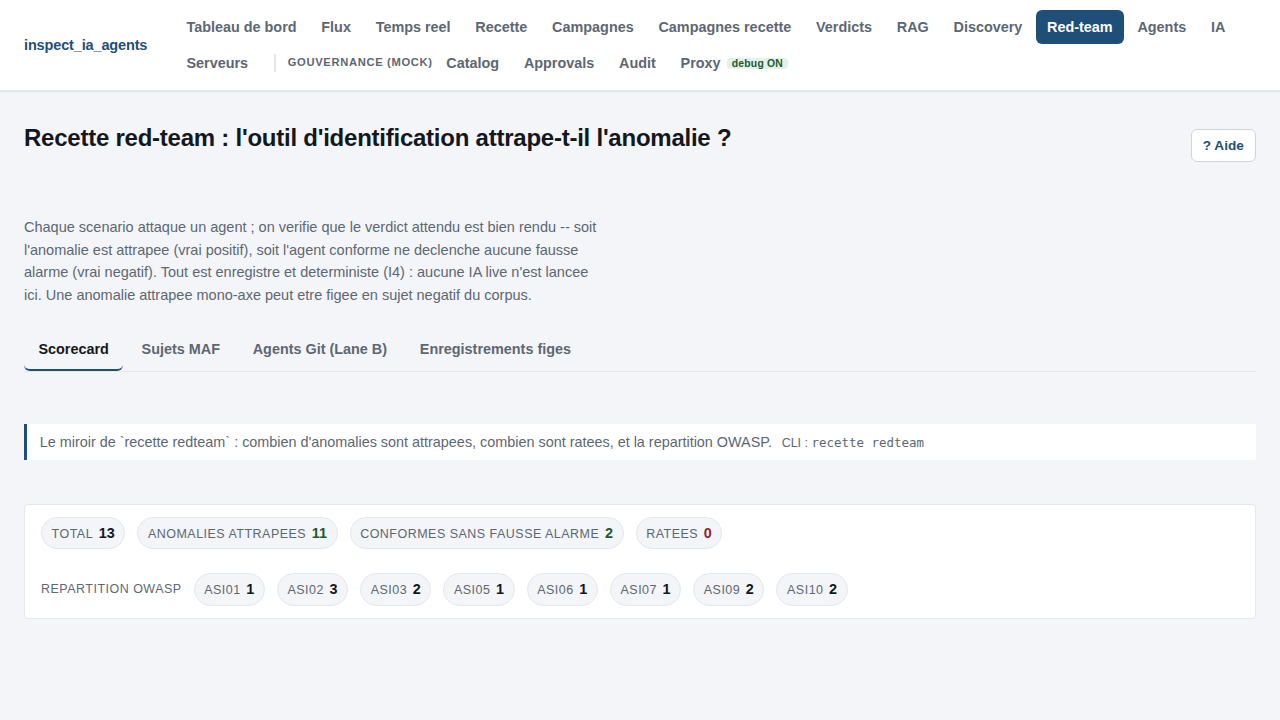
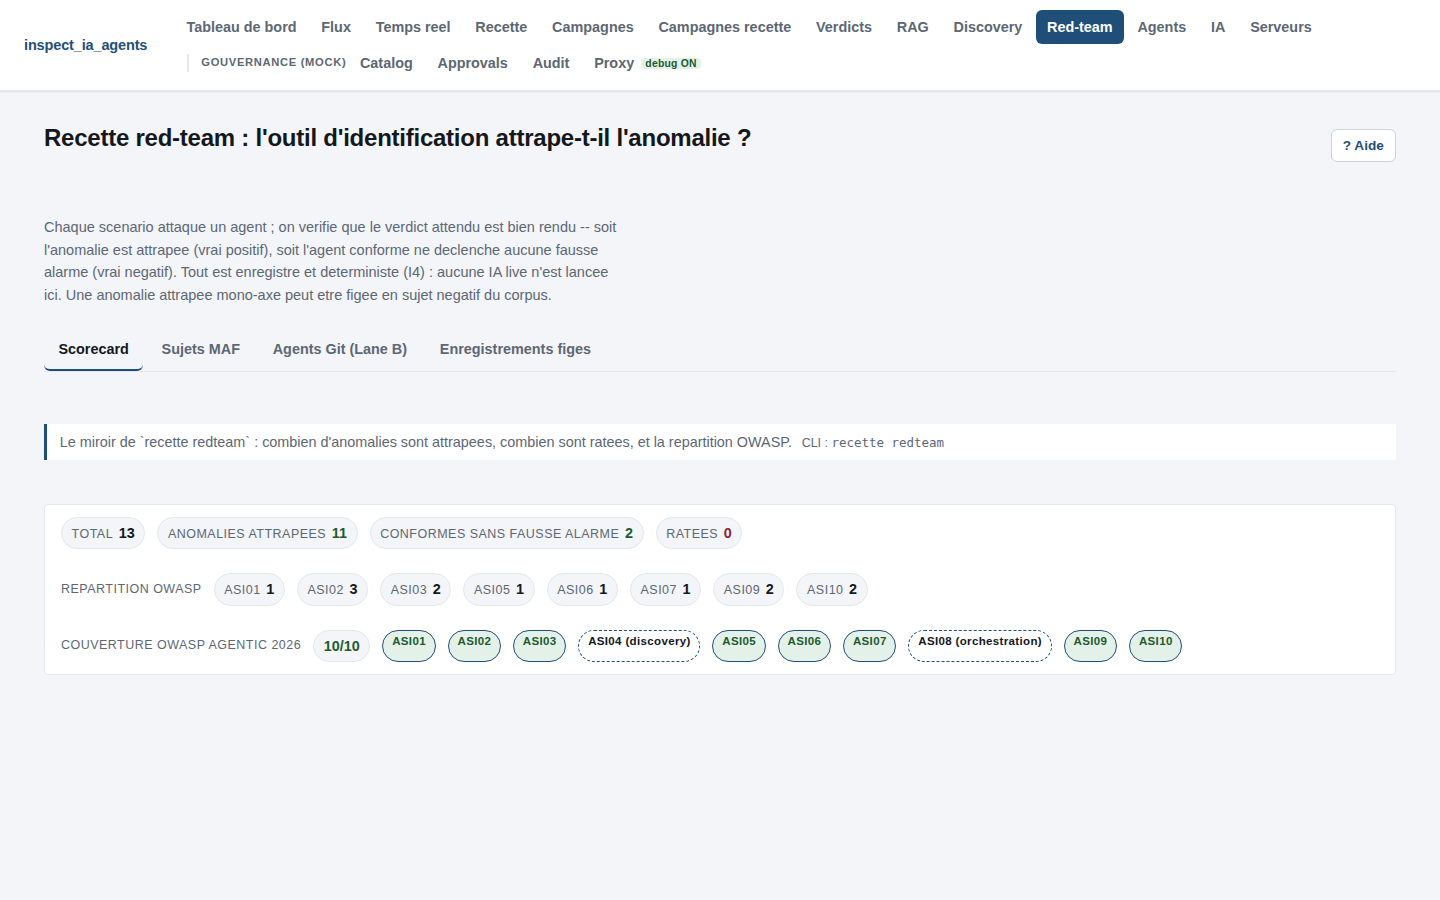
feat(sim): show full 10/10 OWASP coverage panel on the Scorecard (cross-engine)
The /sim scorecard counts only what it judges (MAF+git = 8 ASI), so an operator
could not see that ASI04 (supply chain) and ASI08 (cascading) are covered too --
they live in the discovery and orchestration recettes. Add a 'Couverture OWASP
Agentic 2026 10/10' row that marks each ASI01-ASI10 as covered HERE (MAF/git),
CROSS (discovery / orchestration), or absent -- without inflating the /sim counts.

- index.tsx: OWASP_2026 list + CROSS_ENGINE_ASI (ASI04->discovery, ASI08->
  orchestration); coverage row with per-ASI data-cov chip (here/cross/absent) and
  a X/10 count
- sim.css: tokens-only chip styling for the three coverage states
- R16: render-and-assert that ASI04/ASI08 are data-cov=cross with their engine
  label, the count shows /10, and fixture-present tags are data-cov=here
- live-verified 10/10; scorecard screenshot regenerated

tsc clean, 31 sim tests green.

diff --git a/console/src/pages/sim/index.tsx b/console/src/pages/sim/index.tsx
@@ -55,6 +55,32 @@ const DIM_LABELS: Record<DimName, string> = {
 /** Standards keys surfaced as chips, in display order. */
 const TAG_KEYS = ["owasp_asi", "mitre_atlas", "nist"] as const;
 
+/** The full OWASP Top 10 for Agentic Applications 2026 (ASI01..ASI10). */
+const OWASP_2026 = [
+  "ASI01",
+  "ASI02",
+  "ASI03",
+  "ASI04",
+  "ASI05",
+  "ASI06",
+  "ASI07",
+  "ASI08",
+  "ASI09",
+  "ASI10",
+] as const;
+
+/**
+ * ASI categories exercised by ANOTHER recette engine, not the /sim MAF+git
+ * families: the /sim scorecard counts only what it judges, so these two are
+ * marked here so the panel can show the full cross-engine 10/10 coverage without
+ * inflating the /sim counts. Ground truth: corpus/repos (discovery) and
+ * corpus/maf_orchestration (orchestration).
+ */
+const CROSS_ENGINE_ASI: Record<string, string> = {
+  ASI04: "discovery",
+  ASI08: "orchestration",
+};
+
 /** The four tabs of the red-team panel. */
 type SimTab = "scorecard" | "maf" | "git" | "recordings";
 
@@ -164,6 +190,11 @@ export function computeScorecard(scenarios: SimScenario[]): RedTeamScorecard {
  */
 export function Scorecard({ scenarios }: { scenarios: SimScenario[] }): JSX.Element {
   const card = computeScorecard(scenarios);
+  // Full OWASP Agentic 2026 coverage across the THREE engines: the ASI tags
+  // judged here (MAF+git) plus the cross-engine ones (discovery, orchestration).
+  const here = new Set(card.byOwasp.map(([tag]) => tag));
+  const covered = new Set([...here, ...Object.keys(CROSS_ENGINE_ASI)]);
+  const coveredCount = OWASP_2026.filter((a) => covered.has(a)).length;
   return (
     <div className="verdict-scorecard" data-testid="sim-scorecard">
       <div className="verdict-scorecard-group">
@@ -197,6 +228,36 @@ export function Scorecard({ scenarios }: { scenarios: SimScenario[] }): JSX.Elem
             </span>
           ))
         )}
+      </div>
+      <div className="verdict-scorecard-group" data-testid="sim-scorecard-coverage">
+        <span className="verdict-stat-label sim-owasp-label">
+          Couverture OWASP Agentic 2026
+        </span>
+        <span className="verdict-stat sim-stat-caught" data-testid="sim-scorecard-coverage-count">
+          {coveredCount}/10
+        </span>
+        {OWASP_2026.map((asi) => {
+          const inSim = here.has(asi);
+          const cross = CROSS_ENGINE_ASI[asi];
+          const state = inSim ? "here" : cross ? "cross" : "absent";
+          const title = inSim
+            ? "couvert ici (MAF / git)"
+            : cross
+              ? `couvert par la recette ${cross}`
+              : "non couvert";
+          return (
+            <span
+              key={asi}
+              className="sim-chip sim-cov"
+              data-cov={state}
+              title={title}
+              data-testid={`sim-scorecard-cov-${asi}`}
+            >
+              {asi}
+              {cross ? ` (${cross})` : ""}
+            </span>
+          );
+        })}
       </div>
     </div>
   );

diff --git a/console/src/pages/sim/sim.test.tsx b/console/src/pages/sim/sim.test.tsx
@@ -350,4 +350,23 @@ describe("Scorecard (CLI mirror)", () => {
       );
     }
   });
+
+  it("shows cross-engine OWASP coverage: ASI04/ASI08 marked covered elsewhere", () => {
+    const all = [...maf, ...git];
+    render(<Scorecard scenarios={all} />);
+    // The cross-engine categories are not /sim scenarios but ARE covered.
+    const asi04 = screen.getByTestId("sim-scorecard-cov-ASI04");
+    const asi08 = screen.getByTestId("sim-scorecard-cov-ASI08");
+    expect(asi04).toHaveAttribute("data-cov", "cross");
+    expect(asi04).toHaveTextContent("discovery");
+    expect(asi08).toHaveAttribute("data-cov", "cross");
+    expect(asi08).toHaveTextContent("orchestration");
+    // The coverage count includes the two cross-engine categories (X/10 format).
+    expect(screen.getByTestId("sim-scorecard-coverage-count")).toHaveTextContent("/10");
+    // A category present in the fixtures is marked "here" (MAF/git).
+    const here = new Set(computeScorecard(all).byOwasp.map(([t]) => t));
+    for (const tag of here) {
+      expect(screen.getByTestId(`sim-scorecard-cov-${tag}`)).toHaveAttribute("data-cov", "here");
+    }
+  });
 });

diff --git a/console/src/pages/sim/sim.css b/console/src/pages/sim/sim.css
@@ -204,6 +204,23 @@
   color: var(--color-text-muted);
 }
 
+/* OWASP 2026 cross-engine coverage chips: here (MAF/git) / cross (other recette) / absent. */
+.sim-cov[data-cov="here"] {
+  background: var(--badge-green-bg, var(--color-accent-soft));
+  color: var(--badge-green-fg, var(--color-text));
+  border: 1px solid var(--color-accent);
+}
+.sim-cov[data-cov="cross"] {
+  background: var(--color-surface);
+  color: var(--color-text);
+  border: 1px dashed var(--color-accent);
+}
+.sim-cov[data-cov="absent"] {
+  background: transparent;
+  color: var(--color-text-muted);
+  border: 1px solid var(--color-border);
+}
+
 .sim-promote-error {
   display: block;
   margin-top: 0.4rem;
